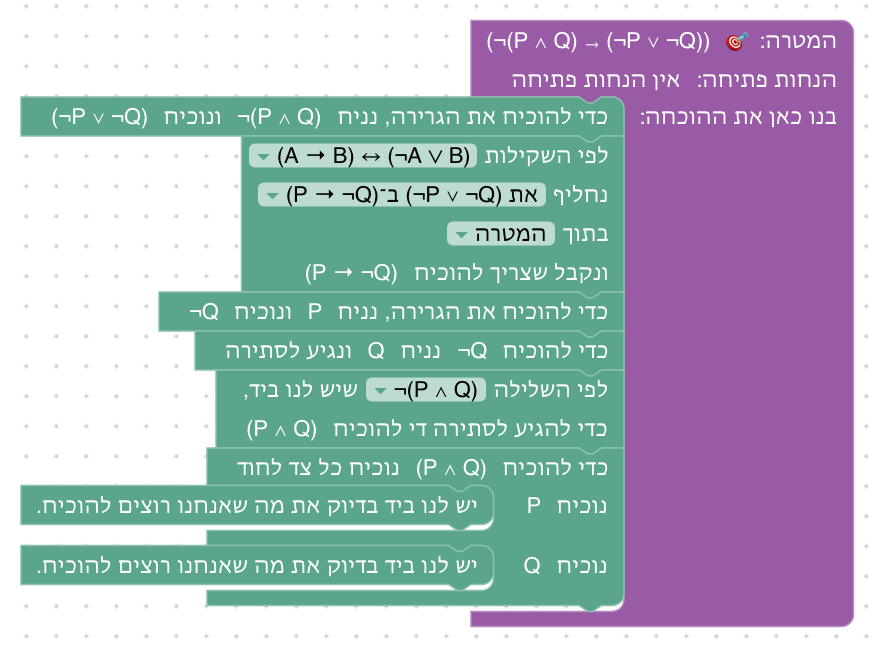
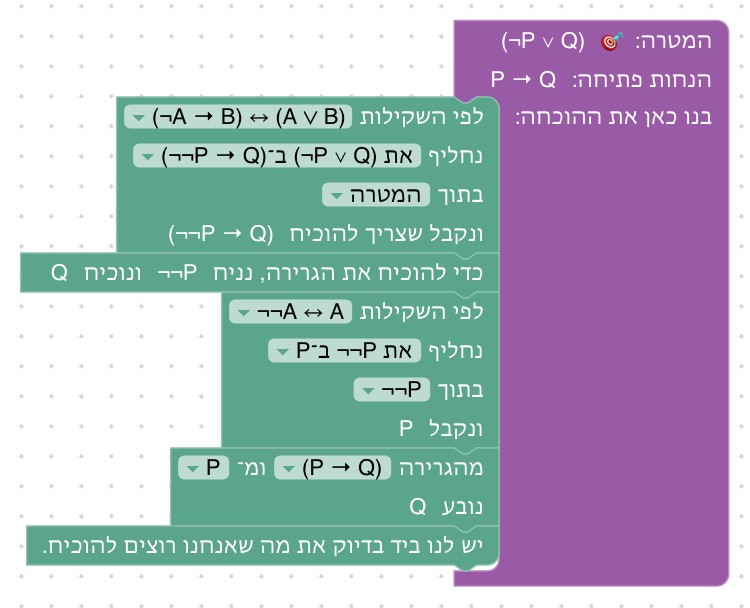
Prove 'or' as the lecture does: assume the negation of one side
The equivalence the umbrella checked in a truth table (1.3),
(¬A → B) ↔ (A ∨ B), is now a law the replacement move offers. A new
level, 6.9, proves ¬P ∨ Q from P → Q this way: assume ¬¬P, that is P,
and prove Q. The bonus, now 6.10, has this way first, and implication as
'or' as a shorter second.

diff --git a/frontend/src/blocks/moves.js b/frontend/src/blocks/moves.js
@@ -134,12 +134,13 @@ class FieldDirection extends Blockly.FieldDropdown {
     }
 }
 
-// Unit 6. The laws of logical equivalence, each proved in both directions in
-// earlier levels, as students read them (with schematic letters A, B, as the
-// moves of unit 4 do) and as Lean's lemmas (EQUIV_PRELUDE). A law about a
-// quantifier is restated with the bound variable of the formula it is used in
-// (see variable), so that a substitution keeps the formula's names. Double
-// negation is used only to remove one: backward, its side A fits any statement.
+// Unit 6. The laws of logical equivalence, each proved earlier (in a truth
+// table of unit 1, or in both directions by moves), as students read them
+// (with schematic letters A, B, as the moves of unit 4 do) and as Lean's
+// lemmas (EQUIV_PRELUDE). A law about a quantifier is restated with the bound
+// variable of the formula it is used in (see variable), so that a substitution
+// keeps the formula's names. Double negation is used only to remove one:
+// backward, its side A fits any statement.
 // Each side of a law: when a formula has its form (match, giving the parts),
 // and the formula it is for given parts (text, in Lean's spelling).
 const both = (symbol, negatedLeft, negatedRight) => ({
@@ -185,10 +186,11 @@ const contraposed = {
     text: ({ a, b }) => `(¬(${b})) → (¬(${a}))`,
 };
 
-// Unit 6. The laws of logical equivalence, each proved in both directions in
-// earlier levels, as students read them (with schematic letters A, B, as the
-// moves of unit 4 do), as Lean's lemmas (EQUIV_PRELUDE), and as the forms of
-// their two sides, to show what a replacement replaces. A law about a
+// Unit 6. The laws of logical equivalence, each proved earlier (in a truth
+// table of unit 1, or in both directions by moves), as students read them
+// (with schematic letters A, B, as the moves of unit 4 do), as Lean's lemmas
+// (EQUIV_PRELUDE), and as the forms of their two sides, to show what a
+// replacement replaces. A law about a
 // quantifier is restated with the bound variable of the formula it is used in
 // (see variable), so that a substitution keeps the formula's names. Double
 // negation is used only to remove one: backward, its side A fits any statement.
@@ -197,6 +199,7 @@ export const LAWS = [
     { value: 'easylean_not_or', left: '¬(A ∨ B)', right: '(¬A ∧ ¬B)', sides: [negated('∨'), both('∧', true, true)] },
     { value: 'easylean_not_and', left: '¬(A ∧ B)', right: '(¬A ∨ ¬B)', sides: [negated('∧'), both('∨', true, true)] },
     { value: 'easylean_imp_or', left: '(A → B)', right: '(¬A ∨ B)', sides: [both('→', false, false), both('∨', true, false)] },
+    { value: 'easylean_or_as_imp', left: '(¬A → B)', right: '(A ∨ B)', sides: [both('→', true, false), both('∨', false, false)] },
     { value: 'easylean_contrapositive', left: '(A → B)', right: '(¬B → ¬A)', sides: [both('→', false, false), contraposed] },
     { value: 'easylean_not_imp', left: '¬(A → B)', right: '(A ∧ ¬B)', sides: [negated('→'), both('∧', false, true)] },
     {

diff --git a/frontend/e2e/walk.spec.js b/frontend/e2e/walk.spec.js
@@ -307,6 +307,8 @@ const replace = async (page, where, law, direction, target, log) => {
 };
 const IMP_OR = '(A → B) ↔ (¬A ∨ B)';
 const NOT_OR = '¬(A ∨ B) ↔ (¬A ∧ ¬B)';
+const OR_AS_IMP = '(¬A → B) ↔ (A ∨ B)';
+const NOT_NOT = '¬¬A ↔ A';
 const UNIT6 = [
     ...[['∃x (P(x))', '∀x (¬P(x))'], ['∃x (¬P(x))', '∀x (P(x))']].map(([exists, forall]) => async (page, log) => {
         const a = await drag(page, 'assume', { goal: true }); log(await phrase(page, a));
@@ -349,10 +351,19 @@ const UNIT6 = [
         await drag(page, 'exact', { after: r2 });
     },
     async (page, log) => {
+        const r = await replace(page, { goal: true }, OR_AS_IMP, 'את (¬P ∨ Q) ב־(¬¬P → Q)', 'המטרה', log);
+        const a = await drag(page, 'assume', { after: r }); log(await phrase(page, a));
+        const d = await replace(page, { after: a }, NOT_NOT, 'את ¬¬P ב־P', '¬¬P', log);
+        const f = await drag(page, 'forward', { after: d }); await choose(page, f, 'RULE', '(P → Q)'); await choose(page, f, 'PREMISE', 'P'); log(await phrase(page, f));
+        await drag(page, 'exact', { after: f });
+    },
+    // The bonus, as the lecture proves "or" (its hints offer implication as "or" too).
+    async (page, log) => {
         const a = await drag(page, 'assume', { goal: true }); log(await phrase(page, a));
-        const r = await replace(page, { after: a }, IMP_OR, 'את (¬P ∨ ¬Q) ב־(P → ¬Q)', 'המטרה', log);
+        const r = await replace(page, { after: a }, OR_AS_IMP, 'את (¬P ∨ ¬Q) ב־(¬¬P → ¬Q)', 'המטרה', log);
         const a2 = await drag(page, 'assume', { after: r }); log(await phrase(page, a2));
-        const n = await drag(page, 'not_intro', { after: a2 }); log(await phrase(page, n));
+        const d = await replace(page, { after: a2 }, NOT_NOT, 'את ¬¬P ב־P', '¬¬P', log);
+        const n = await drag(page, 'not_intro', { after: d }); log(await phrase(page, n));
         const e = await drag(page, 'not_elim', { after: n }); await choose(page, e, 'NEGATION', '¬(P ∧ Q)'); log(await phrase(page, e));
         const s = await drag(page, 'and_intro', { after: e }); log(await phrase(page, s));
         await drag(page, 'exact', { into: s, input: 'LEFT' });

diff --git a/frontend/src/generator/lean.js b/frontend/src/generator/lean.js
@@ -119,6 +119,7 @@ export const EQUIV_PRELUDE = `theorem easylean_not_not {a : Prop} : ¬¬a ↔ a 
 theorem easylean_not_or {a b : Prop} : ¬(a ∨ b) ↔ (¬a ∧ ¬b) := ⟨fun h => ⟨fun x => h (Or.inl x), fun x => h (Or.inr x)⟩, fun h x => x.elim h.1 h.2⟩
 theorem easylean_not_and {a b : Prop} : ¬(a ∧ b) ↔ (¬a ∨ ¬b) := ⟨fun h => (Classical.em a).elim (fun x => Or.inr fun y => h ⟨x, y⟩) Or.inl, fun h ⟨x, y⟩ => h.elim (· x) (· y)⟩
 theorem easylean_imp_or {a b : Prop} : (a → b) ↔ (¬a ∨ b) := ⟨fun h => (Classical.em a).elim (fun x => Or.inr (h x)) Or.inl, fun h x => h.elim (fun n => (n x).elim) id⟩
+theorem easylean_or_as_imp {a b : Prop} : (¬a → b) ↔ (a ∨ b) := ⟨fun h => (Classical.em a).elim Or.inl (fun n => Or.inr (h n)), fun h n => h.elim (fun x => (n x).elim) id⟩
 theorem easylean_contrapositive {a b : Prop} : (a → b) ↔ (¬b → ¬a) := ⟨fun h nb x => nb (h x), fun h x => Classical.byContradiction fun nb => h nb x⟩
 theorem easylean_not_imp {a b : Prop} : ¬(a → b) ↔ (a ∧ ¬b) := ⟨fun h => ⟨Classical.byContradiction fun na => h fun x => (na x).elim, fun hb => h fun _ => hb⟩, fun ⟨x, nb⟩ h => nb (h x)⟩
 theorem easylean_not_exists {α : Type u} {p : α → Prop} : (¬∃ x, p x) ↔ ∀ x, ¬p x := ⟨fun h x hx => h ⟨x, hx⟩, fun h ⟨x, hx⟩ => h x hx⟩

diff --git a/frontend/e2e/solutions.js b/frontend/e2e/solutions.js
@@ -164,8 +164,18 @@ export const UNITS = [
             }],
             [{
                 label: 'פתרון',
-                steps: [assume, replace('easylean_imp_or', 'BACKWARD'), assume, notIntro, notElim('¬(P ∧ Q)'), andIntro([close], [close])],
+                steps: [replace('easylean_or_as_imp', 'BACKWARD'), assume, replace('easylean_not_not', 'FORWARD', '¬¬P'), forward('P → Q', 'P'), close],
             }],
+            [
+                {
+                    label: 'כמו בהרצאה',
+                    steps: [assume, replace('easylean_or_as_imp', 'BACKWARD'), assume, replace('easylean_not_not', 'FORWARD', '¬¬P'), notIntro, notElim('¬(P ∧ Q)'), andIntro([close], [close])],
+                },
+                {
+                    label: 'גרירה כ"או"',
+                    steps: [assume, replace('easylean_imp_or', 'BACKWARD'), assume, notIntro, notElim('¬(P ∧ Q)'), andIntro([close], [close])],
+                },
+            ],
         ],
     },
 ];

diff --git a/docs/curriculum/06-equivalences.md b/docs/curriculum/06-equivalences.md
@@ -2,7 +2,7 @@
 
 <div dir="rtl">
 
-**מטרה:** להשתמש בשקילויות לוגיות כמו בהוכחה כתובה: "לפי חוק דה מורגן, ¬(P ∨ Q) פירושו ¬P ∧ ¬Q". שתי טענות *שקולות* אם יש להן אותו ערך אמת בכל השמה, ואז מותר להחליף אחת בשנייה, במטרה או בטענה שבידינו, וגם בתוך טענה גדולה יותר. את השקילויות של הקשרים הסטודנט כבר בדק בטבלאות אמת ביחידה 1. את השקילויות של הכמתים אי אפשר לבדוק בטבלה: ביחידה 5 הן הוכחו בכיוון אחד, וכאן הוא משלים את הכיוון השני (6.1, 6.2). אחר כך הוא משתמש בשקילויות במהלך חדש אחד, "לפי השקילות ... נחליף ...": מחליף את המטרה בטענה ששקולה לה (6.3), מחליף בטענה שבידינו (6.4), מוכיח גרירה דרך הקונטרה־פוזיציה שלה (6.5), מחליף בתוך טענה ובשרשרת (6.6), מעביר שלילה דרך כמתים (6.7) ומנסח דוגמה נגדית (6.8). בשלב הבונוס (6.9) הוא מוכיח במהלכים את מה שבדק בטבלה, דה מורגן ל"וגם", בטכניקה של ההרצאה להוכחת "או": מוכיחים גרירה.
+**מטרה:** להשתמש בשקילויות לוגיות כמו בהוכחה כתובה: "לפי חוק דה מורגן, ¬(P ∨ Q) פירושו ¬P ∧ ¬Q". שתי טענות *שקולות* אם יש להן אותו ערך אמת בכל השמה, ואז מותר להחליף אחת בשנייה, במטרה או בטענה שבידינו, וגם בתוך טענה גדולה יותר. את השקילויות של הקשרים הסטודנט כבר בדק בטבלאות אמת ביחידה 1. את השקילויות של הכמתים אי אפשר לבדוק בטבלה: ביחידה 5 הן הוכחו בכיוון אחד, וכאן הוא משלים את הכיוון השני (6.1, 6.2). אחר כך הוא משתמש בשקילויות במהלך חדש אחד, "לפי השקילות ... נחליף ...": מחליף את המטרה בטענה ששקולה לה (6.3), מחליף בטענה שבידינו (6.4), מוכיח גרירה דרך הקונטרה־פוזיציה שלה (6.5), מחליף בתוך טענה ובשרשרת (6.6), מעביר שלילה דרך כמתים (6.7), מנסח דוגמה נגדית (6.8), ומוכיח "או" בטכניקה של ההרצאה: מניח את השלילה של צד אחד ומוכיח את הצד השני (6.9). בשלב הבונוס (6.10) הוא מוכיח באותה טכניקה את מה שבדק בטבלה, דה מורגן ל"וגם".
 
 **המקום של השקילויות בספרי הלימוד.** בספרי הלוגיקה של Copi ושל Hurley השקילויות הן "כללי החלפה" (Rules of Replacement): דה מורגן, קונטרה־פוזיציה (Transposition), גרירה כ"או" (Material Implication), שלילה כפולה ועוד. הם באים מיד אחרי כללי ההסקה, וההבדל ביניהם מודגש: כלל הסקה פועל רק על טענה שלמה, ואילו החלפה לפי שקילות מותרת גם בתוך חלק של טענה. ספרי הדדוקציה הטבעית (forall x, Huth & Ryan, Logic and Proof) מוכיחים את השקילויות כתרגילים, ואחר כך משתמשים בהן ככללים נגזרים. ספרי המבוא להוכחות ולמתמטיקה בדידה (Rosen §1.3, Epp, How to Prove It של Velleman) מלמדים שקילויות מוקדם, ומשתמשים בהן כדי לשנות את המטרה: כדי להוכיח P ∨ Q מניחים ¬P ומוכיחים Q, וכשהמטרה היא שלילה מעבירים את השלילה פנימה, גם דרך כמתים. Gries ו־Schneider בונים את הלוגיקה כולה כחשבון של שקילויות. היחידה הזאת הולכת בדרך של ההרצאה, ושל Copi ו־Hurley: השקילויות של הקשרים מוצדקות בטבלאות אמת (יחידה 1), ורק אז הן כללי החלפה. השקילויות של הכמתים, שאין להן טבלה, מוכחות בשני הכיוונים במהלכים, כמו בספרי הדדוקציה הטבעית.
 
@@ -24,14 +24,15 @@
 |---|---|---|---|
 | `¬(A ∨ B) ↔ (¬A ∧ ¬B)` | דה מורגן ל"או" | טבלת אמת, 1.6 | 6.4, 6.6 |
 | `(A → B) ↔ (¬B → ¬A)` | קונטרה־פוזיציה | טבלת אמת, 1.4 | 6.5 |
-| `(A → B) ↔ (¬A ∨ B)` | גרירה כ"או" | טבלת אמת, 1.4 | 6.3, 6.9 |
-| `¬¬A ↔ A` | שלילה כפולה | טבלת אמת, 1.5 | 6.6 |
+| `(A → B) ↔ (¬A ∨ B)` | גרירה כ"או" | טבלת אמת, 1.4 | 6.3, 6.10 |
+| `(¬A → B) ↔ (A ∨ B)` | "או" כגרירה | טבלת אמת, 1.3 | 6.9, 6.10 |
+| `¬¬A ↔ A` | שלילה כפולה | טבלת אמת, 1.5 | 6.6, 6.9, 6.10 |
 | `¬(A → B) ↔ (A ∧ ¬B)` | שלילה של גרירה | טבלת אמת, 1.5 | 6.8 |
 | `¬∃x (P(x)) ↔ ∀x (¬P(x))` | שלילה של "קיים" | 5.8 (→), 6.1 (←) | 6.7 |
 | `¬∀x (P(x)) ↔ ∃x (¬P(x))` | שלילה של "לכל" | 5.10 (→), 6.2 (←) | 6.7, 6.8 |
 | `¬(A ∧ B) ↔ (¬A ∨ ¬B)` | — | טבלת אמת, 1.5 | אף שלב |
 
-כל שקילות מוצגת ככרטיס בשלב שבו היא מופיעה לראשונה בתפריט (גרירה כ"או" מוצגת שוב בשלב 6.9, ושלילה של "לכל" בשלב 6.8), והכרטיס אומר איפה היא הוכחה. בשקילויות כתובות האותיות A ו־B, ובטבלאות α ו־β; טקסט הפתיחה של היחידה אומר שאלה אותן אותיות סכמטיות: כל טענה.
+כל שקילות מוצגת ככרטיס בשלב שבו היא מופיעה לראשונה בתפריט (גרירה כ"או" מוצגת שוב בשלב 6.10, ושלילה של "לכל" בשלב 6.8), והכרטיס אומר איפה היא הוכחה. בשקילויות כתובות האותיות A ו־B, ובטבלאות α ו־β; טקסט הפתיחה של היחידה אומר שאלה אותן אותיות סכמטיות: כל טענה.
 
 **מהלכים מיחידות קודמות** שבארגז של שלבים ביחידה הזאת:
 
@@ -60,7 +61,7 @@
 
 **הוחלט: מחליפים חלק אחד.** "את ¬¬Q ב־Q" מחליף את החלק הראשון מהצורה של הצד (ב־Lean, `rewrite (occs := .pos [1])`). בתוך כמת `rewrite` לא מגיע (הוא לא מחליף מתחת למשתנה קשור), ואז המהלך עובר ל־`simp only`, שמחליף את כל החלקים מהצורה הזאת; בשלבים של היחידה יש בכל מקום חלק אחד כזה בלבד. בהתחלה הוצעה גם האפשרות "את כל הביטויים מהצורה ¬¬A ב־A" (בהצעת מחבר הקורס), והוחלט לוותר עליה, כמו על "כל החלקים" בשכתוב לפי הגדרה (יחידות 9–10): כך ההוכחה אומרת מה בדיוק מוחלף, והסטודנט עוקב אחרי כל החלפה.
 
-**ב־Lean.** השקילויות מוכחות שוב ב־Lean, כמשפטים של הקורס (`EQUIV_PRELUDE` ב־`frontend/src/generator/lean.js`): `easylean_not_not`, `easylean_not_or`, `easylean_not_and`, `easylean_imp_or`, `easylean_contrapositive`, `easylean_not_imp`, `easylean_not_exists`, `easylean_not_forall`. ההקדמה נוספת רק לשלבים שיש להם שקילויות (`level.laws`), ולכן לא מאטה את שאר השלבים. גם התפריט של המהלך מציע רק את השקילויות של השלב (`level.laws`), כמו שבארגז יש רק המהלכים של השלב.
+**ב־Lean.** השקילויות מוכחות שוב ב־Lean, כמשפטים של הקורס (`EQUIV_PRELUDE` ב־`frontend/src/generator/lean.js`): `easylean_not_not`, `easylean_not_or`, `easylean_not_and`, `easylean_imp_or`, `easylean_or_as_imp`, `easylean_contrapositive`, `easylean_not_imp`, `easylean_not_exists`, `easylean_not_forall`. ההקדמה נוספת רק לשלבים שיש להם שקילויות (`level.laws`), ולכן לא מאטה את שאר השלבים. גם התפריט של המהלך מציע רק את השקילויות של השלב (`level.laws`), כמו שבארגז יש רק המהלכים של השלב.
 
 **שקילות על כמת שומרת על שמות המשתנים.** השקילויות על כמתים מנוסחות ב־Lean עם משתנה קשור כלשהו, ו־`simp only` היה כותב בתוצאה שם חדש, למשל `∃ x, ∀ x_1, ¬R x x_1`. לכן, למהלך הזה בלבד, השקילות מנוסחת מחדש עם המשתנה הקשור של הטענה (`have easylean_law : … (¬∃ y, p y) ↔ ∀ y, ¬p y := …`, ואחרי ההחלפה `clear easylean_law`), ובשלב 6.7 מתקבל `∃x (∀y (¬R(x,y)))`, כמו בהוכחה כתובה.
 
@@ -76,7 +77,7 @@
 
 לכל שלב: מה לומדים בו, למה הוא בנוי כך, איך אנחנו רוצים שסטודנטים יפתרו אותו, ושיקולים ושאלות שעוד צריך להכריע. צילומי הפתרונות נוצרים מ־`frontend/e2e/solutions.js` (ראו [יחידה 2](02-implications.md#שלבים)). בכל שלב בארגז רק המהלכים של הפתרונות שלו, ובתפריט של מהלך ההחלפה רק השקילויות שלהם.
 
-**סדר היחידה.** קודם משלימים את השקילויות של הכמתים (6.1–6.2), במהלכים מוכרים. אחר כך המהלך החדש: במטרה (6.3), בטענה שבידינו (6.4), כשיטת הוכחה עם שתי דרכים (6.5), בתוך טענה ובשרשרת (6.6), ובתוך כמת (6.7), ושתי ההחלפות יחד, דרך "לכל" ודרך גרירה, כדי לנסח דוגמה נגדית (6.8). הבונוס (6.9) מוכיח במהלכים את מה שנבדק בטבלה.
+**סדר היחידה.** קודם משלימים את השקילויות של הכמתים (6.1–6.2), במהלכים מוכרים. אחר כך המהלך החדש: במטרה (6.3), בטענה שבידינו (6.4), כשיטת הוכחה עם שתי דרכים (6.5), בתוך טענה ובשרשרת (6.6), ובתוך כמת (6.7), ושתי ההחלפות יחד, דרך "לכל" ודרך גרירה, כדי לנסח דוגמה נגדית (6.8). אחר כך הוכחת "או" כמו בהרצאה (6.9), והבונוס (6.10) מוכיח באותה טכניקה את מה שנבדק בטבלה.
 
 ### שלב 6.1: משלימים את השלילה של "קיים"
 
@@ -208,20 +209,39 @@
 - כמו בשלב 6.7, ייתכן שיש דרך שנייה, אחורה מהמטרה, בכיוונים ההפוכים של אותן שקילויות. היא לא נבדקה ואינה בין הפתרונות.
 - השלב מוכיח רק את הכיוון →. אפשר להפוך אותו לשקילות (הכיוון ← הוא אותן החלפות בכיוון ההפוך), אבל אז הוא כמעט יוכפל באורכו, בלי רעיון חדש.
 
-### שלב 6.9: שלב בונוס: דה מורגן ל"וגם"
+### שלב 6.9: הוכחת "או": נניח את השלילה של צד אחד
 
-`⊢ ¬(P ∧ Q) → (¬P ∨ ¬Q)` · בארגז: נניח, החלפה לפי שקילות, הוכחת שלילה, שימוש בשלילה, הוכחת "וגם", זה בדיוק · בתפריט: `(A → B) ↔ (¬A ∨ B)`
+`P → Q ⊢ ¬P ∨ Q` · בארגז: החלפה לפי שקילות, נניח, הסקה קדימה, זה בדיוק · בתפריט: `(¬A → B) ↔ (A ∨ B)`, `¬¬A ↔ A`
 
-**מה לומדים.** שטבלה היא רק אחת הדרכים להוכיח שקילות: את הכיוון → של דה מורגן ל"וגם", שנבדק בטבלה בשלב 1.5, מוכיחים כאן במהלכים. ואת טכניקת ההוכחה של "או" מההרצאה: כדי להוכיח "או", מוכיחים גרירה.
+**מה לומדים.** את הטכניקה של ההרצאה להוכחת "או": כדי להוכיח α ∨ β, נניח ¬α ונוכיח β. היא נובעת מהשקילות ¬α → β ≡ α ∨ β, שנבדקה בטבלה בשלב 1.3 (המטריה).
 
-**למה כך.** להוכיח "או" כשלא ידוע איזה צד נכון זה קשה, וביחידה 4 זה דרש הוכחה בשלילה (כמו בשלב 4.10). כאן השקילות (A → B) ↔ (¬A ∨ B), בכיוון ההפוך, הופכת את המטרה ¬P ∨ ¬Q לגרירה P → ¬Q, וגרירה יודעים להוכיח: נניח P ונוכיח ¬Q. זו הטכניקה של ההרצאה ("נניח ¬α ונוכיח β"), עם α = ¬P. זו גם הפעם הראשונה שבה ההחלפה במטרה היא בכיוון ההפוך, "את (¬A ∨ B) ב־(A → B)", עם A = P ו־B = ¬Q (בשלב 6.5 הכיוון ההפוך היה רק בדרך השנייה, בהנחה).
+**למה כך.** בטבלה של ההרצאה ("המילה הראשית קובעת את מבנה ההוכחה") השורה של α ∨ β היא "נניח ¬α", "נשאר להוכיח β". השלב עושה בדיוק את זה: מחליפים את המטרה ¬P ∨ Q ב־¬¬P → Q, ומניחים ¬¬P. כאן α היא ¬P, ולכן מה שמניחים הוא שלילה כפולה, ולפי ¬¬A ↔ A מקבלים P; זו גם הסיבה שהשלילה הכפולה בתפריט. הטענה עצמה, ¬P ∨ Q מתוך P → Q, היא הכיוון → של גרירה כ"או" (שלב 1.4), אבל השקילות הזאת לא בתפריט, כדי שהשלב לא ייפתר בהחלפה אחת. בארגז אין הוכחת "או", ולכן אי אפשר לבחור צד.
 
-**פתרון.** "כדי להוכיח את הגרירה, נניח ¬(P ∧ Q) ונוכיח (¬P ∨ ¬Q)", "לפי השקילות (A → B) ↔ (¬A ∨ B) נחליף את (¬A ∨ B) ב־(A → B) בתוך המטרה" (עכשיו המטרה P → ¬Q), "כדי להוכיח את הגרירה, נניח P ונוכיח ¬Q", "כדי להוכיח ¬Q נניח Q ונגיע לסתירה", "לפי השלילה ¬(P ∧ Q) שיש לנו ביד, כדי להגיע לסתירה די להוכיח (P ∧ Q)", "כדי להוכיח (P ∧ Q) נוכיח כל צד לחוד": בחלק "נוכיח P" ובחלק "נוכיח Q", "יש לנו ביד...".
+**פתרון.** "לפי השקילות (¬A → B) ↔ (A ∨ B) נחליף את (¬P ∨ Q) ב־(¬¬P → Q) בתוך המטרה", "כדי להוכיח את הגרירה, נניח ¬¬P ונוכיח Q", "לפי השקילות ¬¬A ↔ A נחליף את ¬¬P ב־P בתוך ¬¬P" (עכשיו P בידינו), "מהגרירה P → Q ומ־P נובע Q", ו"יש לנו ביד בדיוק את מה שאנחנו רוצים להוכיח."
 
 ![שלב 6.9](images/unit6-level9-a.png)
 
 **שיקולים ושאלות להכרעה.**
-- ההרצאה מציגה את הטכניקה כ"נניח ¬α ונוכיח β", לפי השקילות ¬α → β ≡ α ∨ β (שלב 1.3). השקילות הזאת לא בתפריט, ולכן כאן משתמשים בגרירה כ"או", (A → B) ↔ (¬A ∨ B), ומניחים P ולא ¬¬P. להוסיף את ¬α → β ≡ α ∨ β כשקילות, כדי שההוכחה תהיה בדיוק כמו בהרצאה?
+- בהרצאה הטכניקה מוצגת על טענה שבה α חיובית ("נניח a ≠ 0"). כאן α היא ¬P, ולכן צריך גם שלילה כפולה. האם להוסיף לפני כן שלב קצר שבו α חיובית, למשל `¬Q → P ⊢ P ∨ Q` (אחרי ההחלפה, ¬P → Q, ואז הוכחה בשלילה)?
+- מהלך "הוכחת 'או'" (בחירת צד, יחידה 3) עדיין קיים. ההרצאה מציגה רק את הדרך של "נניח ¬α". להשאיר את שתיהן?
+
+### שלב 6.10: שלב בונוס: דה מורגן ל"וגם"
+
+`⊢ ¬(P ∧ Q) → (¬P ∨ ¬Q)` · בארגז: נניח, החלפה לפי שקילות, הוכחת שלילה, שימוש בשלילה, הוכחת "וגם", זה בדיוק · בתפריט: `(¬A → B) ↔ (A ∨ B)`, `¬¬A ↔ A`, `(A → B) ↔ (¬A ∨ B)`
+
+**מה לומדים.** שטבלה היא רק אחת הדרכים להוכיח שקילות: את הכיוון → של דה מורגן ל"וגם", שנבדק בטבלה בשלב 1.5, מוכיחים כאן במהלכים, בטכניקה של שלב 6.9.
+
+**למה כך.** אחרי הנחת התנאי המטרה היא "או", ¬P ∨ ¬Q, ולא ידוע איזה צד נכון; ביחידה 4 זה דרש הוכחה בשלילה (כמו בשלב 4.10). כמו בשלב 6.9, לפי (¬A → B) ↔ (A ∨ B) מחליפים אותה ב־¬¬P → ¬Q, מניחים ¬¬P, ומקבלים P לפי השלילה הכפולה. טקסט הפתיחה מציע גם דרך קצרה יותר: לפי (A → B) ↔ (¬A ∨ B), בכיוון ההפוך, המטרה הופכת ל־P → ¬Q, בלי שלילה כפולה. זו הפעם הראשונה שבה ההחלפה במטרה לפי גרירה כ"או" היא בכיוון ההפוך (בשלב 6.5 הכיוון ההפוך היה רק בדרך השנייה, בהנחה). בשתי הדרכים ההמשך זהה: מוכיחים ¬Q בהנחת Q, ומגיעים לסתירה לפי ¬(P ∧ Q).
+
+**פתרון א: כמו בהרצאה.** "כדי להוכיח את הגרירה, נניח ¬(P ∧ Q) ונוכיח (¬P ∨ ¬Q)", "לפי השקילות (¬A → B) ↔ (A ∨ B) נחליף את (¬P ∨ ¬Q) ב־(¬¬P → ¬Q) בתוך המטרה", "כדי להוכיח את הגרירה, נניח ¬¬P ונוכיח ¬Q", "לפי השקילות ¬¬A ↔ A נחליף את ¬¬P ב־P בתוך ¬¬P", "כדי להוכיח ¬Q נניח Q ונגיע לסתירה", "לפי השלילה ¬(P ∧ Q) שיש לנו ביד, כדי להגיע לסתירה די להוכיח (P ∧ Q)", "כדי להוכיח (P ∧ Q) נוכיח כל צד לחוד": בחלק "נוכיח P" ובחלק "נוכיח Q", "יש לנו ביד...".
+
+![שלב 6.10, כמו בהרצאה](images/unit6-level10-a.png)
+
+**פתרון ב: גרירה כ"או".** "כדי להוכיח את הגרירה, נניח ¬(P ∧ Q) ונוכיח (¬P ∨ ¬Q)", "לפי השקילות (A → B) ↔ (¬A ∨ B) נחליף את (¬A ∨ B) ב־(A → B) בתוך המטרה" (עכשיו המטרה P → ¬Q), "כדי להוכיח את הגרירה, נניח P ונוכיח ¬Q", ומשם כמו בפתרון א.
+
+![שלב 6.10, גרירה כ"או"](images/unit6-level10-b.png)
+
+**שיקולים ושאלות להכרעה.**
 
 ## שאלות שנוגעות ליחידה כולה
 
@@ -234,7 +254,7 @@
 
 - **כללי החלפה (Copi, Hurley).** בספרי הלוגיקה הקלאסיים לסטודנטים, אחרי כללי ההסקה (תשעה אצל Copi, שמונה אצל Hurley) באים עשרה כללי החלפה: דה מורגן, קומוטטיביות, אסוציאטיביות, פילוג, שלילה כפולה, קונטרה־פוזיציה (Transposition), גרירה כ"או" (Material Implication), Material Equivalence, Exportation ו־Tautology. כלל החלפה מותר גם בתוך חלק של שורה, וכלל הסקה רק על שורה שלמה, ושני הספרים מדגישים את ההבדל. השקילויות לא מוכחות שם בכללי ההסקה: הן מוצדקות בטבלאות אמת, וכך גם כאן, ביחידה 1.
 - **כללים נגזרים (forall x, Huth & Ryan, Logic and Proof).** בספרי הדדוקציה הטבעית השקילויות הן תרגילים: מוכיחים את דה מורגן, את הקונטרה־פוזיציה ואת השלילה של כמתים בכללים הבסיסיים, ואחר כך מוסיפים אותם ככללים נגזרים (forall x: DeM, CQ). Huth & Ryan מגדירים שקילות כגזירה בשני הכיוונים (⊣⊢). כך בנויות כאן השקילויות של הכמתים: הן נכנסות לתפריט רק אחרי ששני הכיוונים הוכחו.
-- **ספרי מבוא להוכחות ולמתמטיקה בדידה (Rosen §1.3–1.5, Epp פרקים 2–3, Velleman, How to Prove It).** טבלה של שקילויות מוצגת מוקדם, ומשמשת להוכחת שקילויות חדשות בשרשרת (שלב 6.6) ולשלילה של טענות עם כמתים (שלבים 6.7 ו־6.8). Velleman משתמש בהן כדי לשנות את המטרה: כדי להוכיח P ∨ Q מניחים ¬P ומוכיחים Q (הדרך של שלב 6.9), וכשהמטרה היא שלילה, "מנסחים אותה מחדש" בלי שלילה מבחוץ, לפי השקילויות של שלילת כמתים. הוכחה בקונטרה־פוזיציה היא שיטת הוכחה בפני עצמה (שלב 6.5).
+- **ספרי מבוא להוכחות ולמתמטיקה בדידה (Rosen §1.3–1.5, Epp פרקים 2–3, Velleman, How to Prove It).** טבלה של שקילויות מוצגת מוקדם, ומשמשת להוכחת שקילויות חדשות בשרשרת (שלב 6.6) ולשלילה של טענות עם כמתים (שלבים 6.7 ו־6.8). Velleman משתמש בהן כדי לשנות את המטרה: כדי להוכיח P ∨ Q מניחים ¬P ומוכיחים Q (הדרך של שלבים 6.9 ו־6.10), וכשהמטרה היא שלילה, "מנסחים אותה מחדש" בלי שלילה מבחוץ, לפי השקילויות של שלילת כמתים. הוכחה בקונטרה־פוזיציה היא שיטת הוכחה בפני עצמה (שלב 6.5).
 - **חשבון של שקילויות (Gries ו־Schneider, A Logical Approach to Discrete Math).** הלוגיקה כולה בנויה כחשבון של שקילויות: כל הוכחה היא שרשרת של החלפות "שקול בשקול", לפי כלל לייבניץ, כמו בחישוב אלגברי. שלב 6.6 הוא טעימה מהסגנון הזה, וההחלפה לפי שוויון ביחידה 9 היא אותו כלל.
 - **ב־Lean ובכלים אחרים.** ב־Lean מחליפים לפי שקילות ב־`rw` וב־`simp`, ו־`push_neg` של Mathlib מעביר שלילה פנימה בצעד אחד. כאן, כמו ביחידה 4, אין `push_neg`: כל מעבר של שלילה הוא צעד שהסטודנט בוחר, לפי שקילות שהוא הוכיח. D∃∀duction מנסח כל הגדרה כשקילות, וכך מאפשר להחליף לפיה (ראו שאלה (א)).
 - **מקורות:**

diff --git a/docs/curriculum/01-truth-tables.md b/docs/curriculum/01-truth-tables.md
@@ -52,7 +52,7 @@
 
 **מה לומדים.** לבדוק שקילות בטבלה, וההבדל בין ↔ (פסוק) לבין ≡ (טענה שלנו, במטא־שפה).
 
-**למה כך.** הדיאלוג מההרצאה, בשלוש שורות. השקילות ¬α → β ≡ α ∨ β היא טכניקת הוכחה: כדי להוכיח "או", נניח את השלילה של צד אחד ונוכיח את הצד השני. טקסט הסיום מנסח אותה כך.
+**למה כך.** הדיאלוג מההרצאה, בשלוש שורות. השקילות ¬α → β ≡ α ∨ β היא טכניקת הוכחה: כדי להוכיח "או", נניח את השלילה של צד אחד ונוכיח את הצד השני. טקסט הסיום מנסח אותה כך, וביחידה 6 היא בתפריט של מהלך ההחלפה, כ־(¬A → B) ↔ (A ∨ B), ומשמשת בשלבים 6.9 ו־6.10 בדיוק כך.
 
 ![שלב 1.3](images/unit1-level3-a.png)
 
